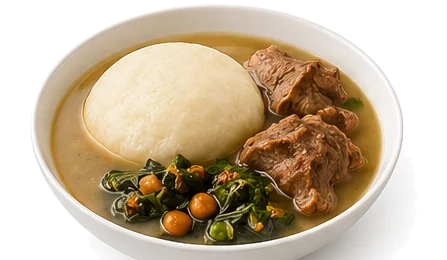
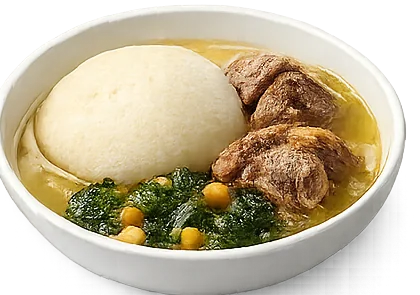
Speed up weekly planner and refresh dish photos
- Fix slow toggling between "Order for today" and "Plan my week": the
  week-plan endpoint ran its DB queries sequentially, and the client
  re-fetched from scratch on every switch. Parallelize the independent
  queries, add a targeted history lookup instead of pulling the whole
  collection, and cache the client-side result for 8s so repeated
  toggling doesn't re-hit the network every click
- Replace all 7 dish photos with higher-quality transparent cutouts

diff --git a/public/app.js b/public/app.js
@@ -52,6 +52,7 @@ let orderFormDirty = false;
 // reload doesn't dump someone back into today-mode mid-planning.
 let orderMode = localStorage.getItem('lunchsync_order_mode') === 'week' ? 'week' : 'today';
 let weekPlan = null;
+let weekPlanFetchedAt = 0;
 // Dates (YYYY-MM-DD) with an in-flight edit — mirrors orderFormDirty's role
 // but per-card, since the weekly grid re-renders on every poll too.
 const weekPlanDirtyDates = new Set();
@@ -911,7 +912,16 @@ function setOrderMode(mode) {
     btn.setAttribute('aria-pressed', String(active));
   });
   applyOrderModeVisibility();
-  if (orderMode === 'week') fetchWeekPlan();
+  if (orderMode === 'week') {
+    // Skip the network round-trip if we already fetched recently (e.g. the
+    // user is just toggling back and forth) — re-render instantly from the
+    // cached data instead of re-waiting on the same slow query every time.
+    if (weekPlan && Date.now() - weekPlanFetchedAt < 8000) {
+      renderWeeklyPlan();
+    } else {
+      fetchWeekPlan();
+    }
+  }
 }
 
 // Single source of truth for which of the today-mode panels vs. the weekly
@@ -935,8 +945,15 @@ function applyOrderModeVisibility() {
 }
 
 async function fetchWeekPlan() {
+  // Only show a loading placeholder on the very first load — on subsequent
+  // 10s polls, the existing cards should just stay put until fresh data
+  // arrives, not flash to a loading state every time.
+  if (!weekPlan) {
+    weekGrid.innerHTML = '<p class="week-grid-loading">Loading your week…</p>';
+  }
   try {
     weekPlan = await apiCall('/api/week-plan');
+    weekPlanFetchedAt = Date.now();
     weeklyPlanStatus.textContent = '';
     weeklyPlanStatus.className = 'status-msg-inline';
     renderWeeklyPlan();
@@ -956,6 +973,7 @@ function renderWeeklyPlan() {
   }
   weeklyMenuStatusMsg.classList.add('hidden');
   weekGrid.classList.remove('hidden');
+  weekGrid.querySelector('.week-grid-loading')?.remove();
 
   weekPlan.days.forEach(day => {
     if (weekPlanDirtyDates.has(day.date)) return; // in-flight edit — leave it alone

diff --git a/server.js b/server.js
@@ -15,6 +15,7 @@ import {
   getDailyState,
   saveDailyState,
   getHistory,
+  getHistoryForDates,
   saveHistory,
   getRemindersLog,
   saveRemindersLog,
@@ -1208,16 +1209,15 @@ function buildWeekDayInfo(dailyState, plan, date, userId, pastEntry) {
 // Team Member: Read this week's plan — one card per operational day in the
 // current Mon-Sun week, sourced from history/today's order/plan as above.
 app.get('/api/week-plan', authMiddleware, async (req, res) => {
-  const dailyState = await getDailyState();
   const userId = req.user.id;
+  // getWeeklyPlan doesn't depend on dailyState, so run them concurrently
+  // instead of paying two sequential Atlas round-trips back to back.
+  const [dailyState, plan] = await Promise.all([getDailyState(), getWeeklyPlan(userId)]);
   const weekDates = getPlanWeekDates(dailyState);
-  const plan = await getWeeklyPlan(userId);
 
-  let historyByDate = new Map();
-  if (weekDates.some(d => dailyState.date && d < dailyState.date)) {
-    const history = await getHistory();
-    historyByDate = new Map(history.map(h => [h.date, h]));
-  }
+  const pastDates = weekDates.filter(d => dailyState.date && d < dailyState.date);
+  const history = await getHistoryForDates(pastDates);
+  const historyByDate = new Map(history.map(h => [h.date, h]));
 
   const days = weekDates.map(date =>
     buildWeekDayInfo(dailyState, plan, date, userId, historyByDate.get(date))

diff --git a/db.js b/db.js
@@ -103,6 +103,15 @@ export async function getHistory() {
   return docs.map(({ _id, _seq, ...rest }) => rest);
 }
 
+// Targeted lookup for a handful of specific dates (e.g. the current week's
+// past days in the weekly planner) — avoids pulling the entire history
+// collection just to find a few entries.
+export async function getHistoryForDates(dates) {
+  if (!dates || dates.length === 0) return [];
+  const docs = await db.collection('history').find({ date: { $in: dates } }).toArray();
+  return docs.map(({ _id, _seq, ...rest }) => rest);
+}
+
 export async function saveHistory(history) {
   const collection = db.collection('history');
   await collection.deleteMany({});

diff --git a/public/index.css b/public/index.css
@@ -3090,6 +3090,13 @@ input:checked + .slider:before {
   gap: 1rem;
 }
 
+.week-grid-loading {
+  grid-column: 1 / -1;
+  text-align: center;
+  padding: 2rem;
+  color: var(--text-muted);
+}
+
 .week-day-card {
   background: var(--bg-secondary);
   border: 1px solid var(--card-border);
